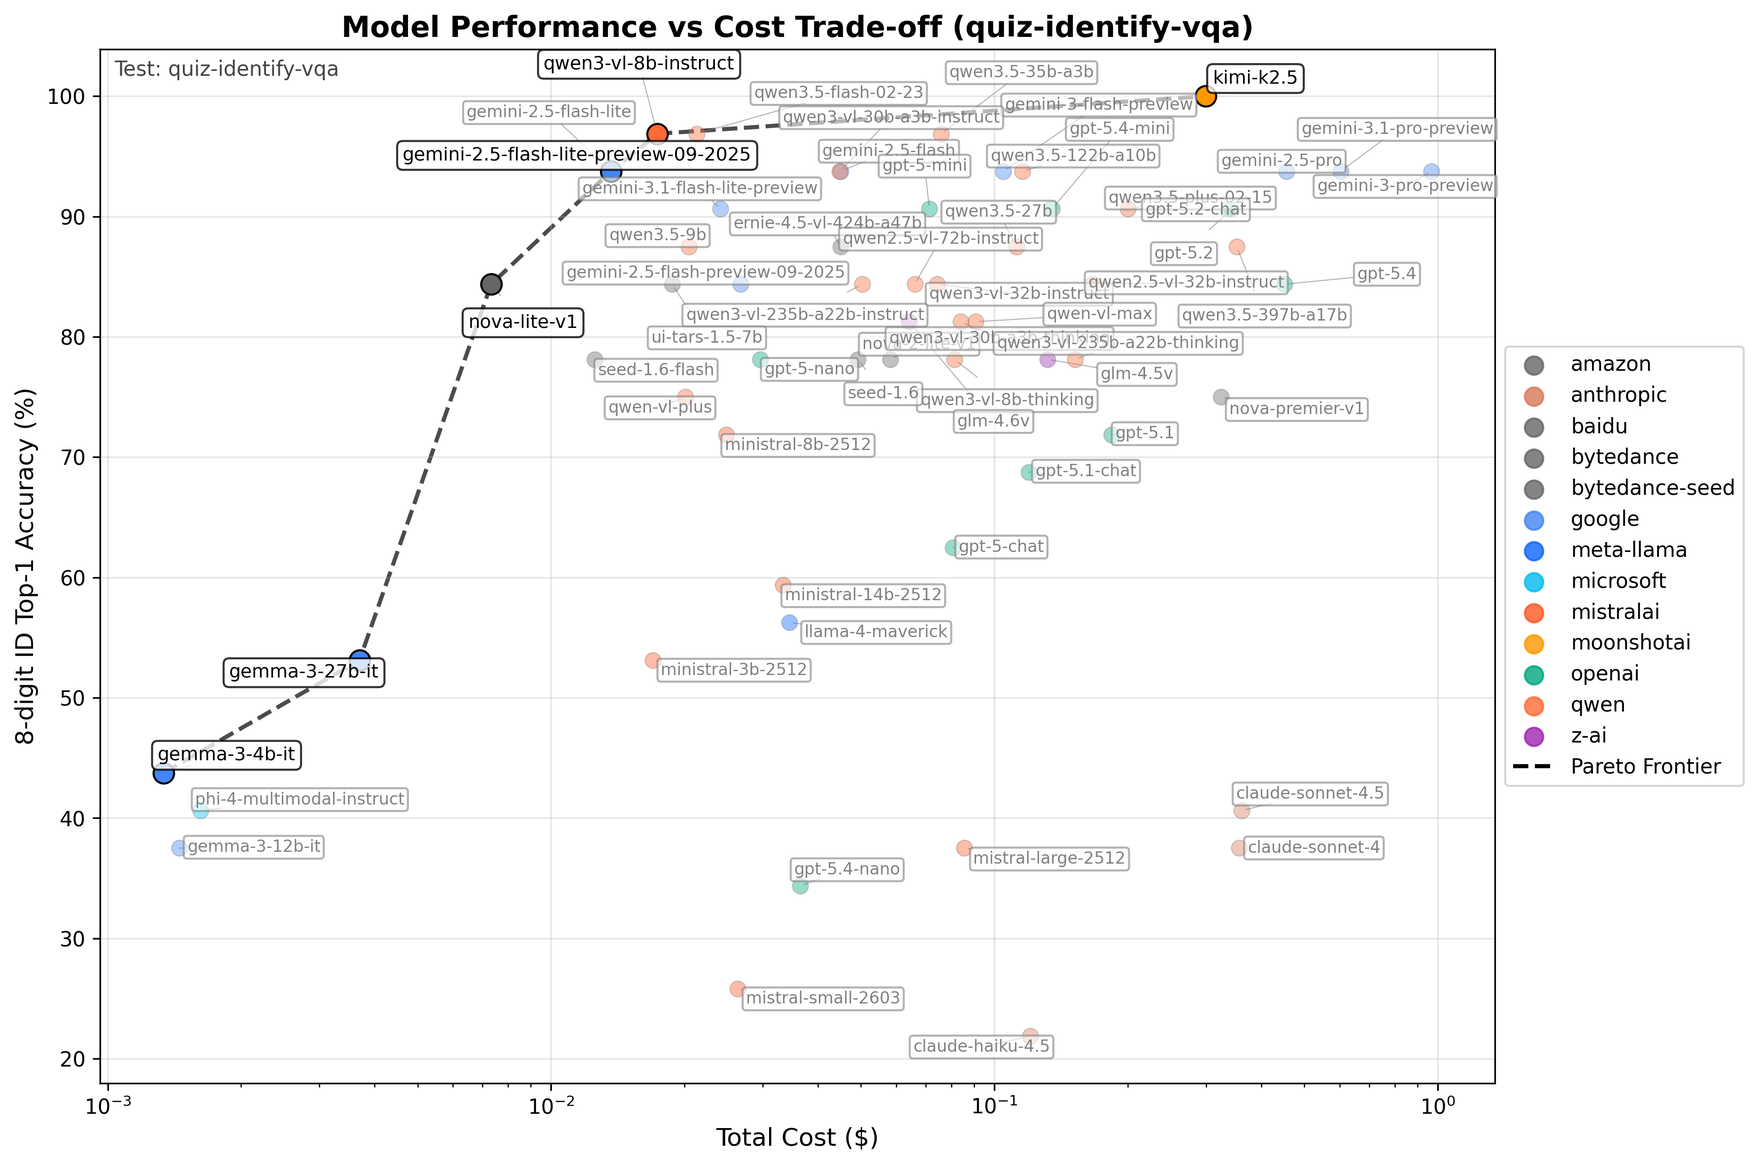
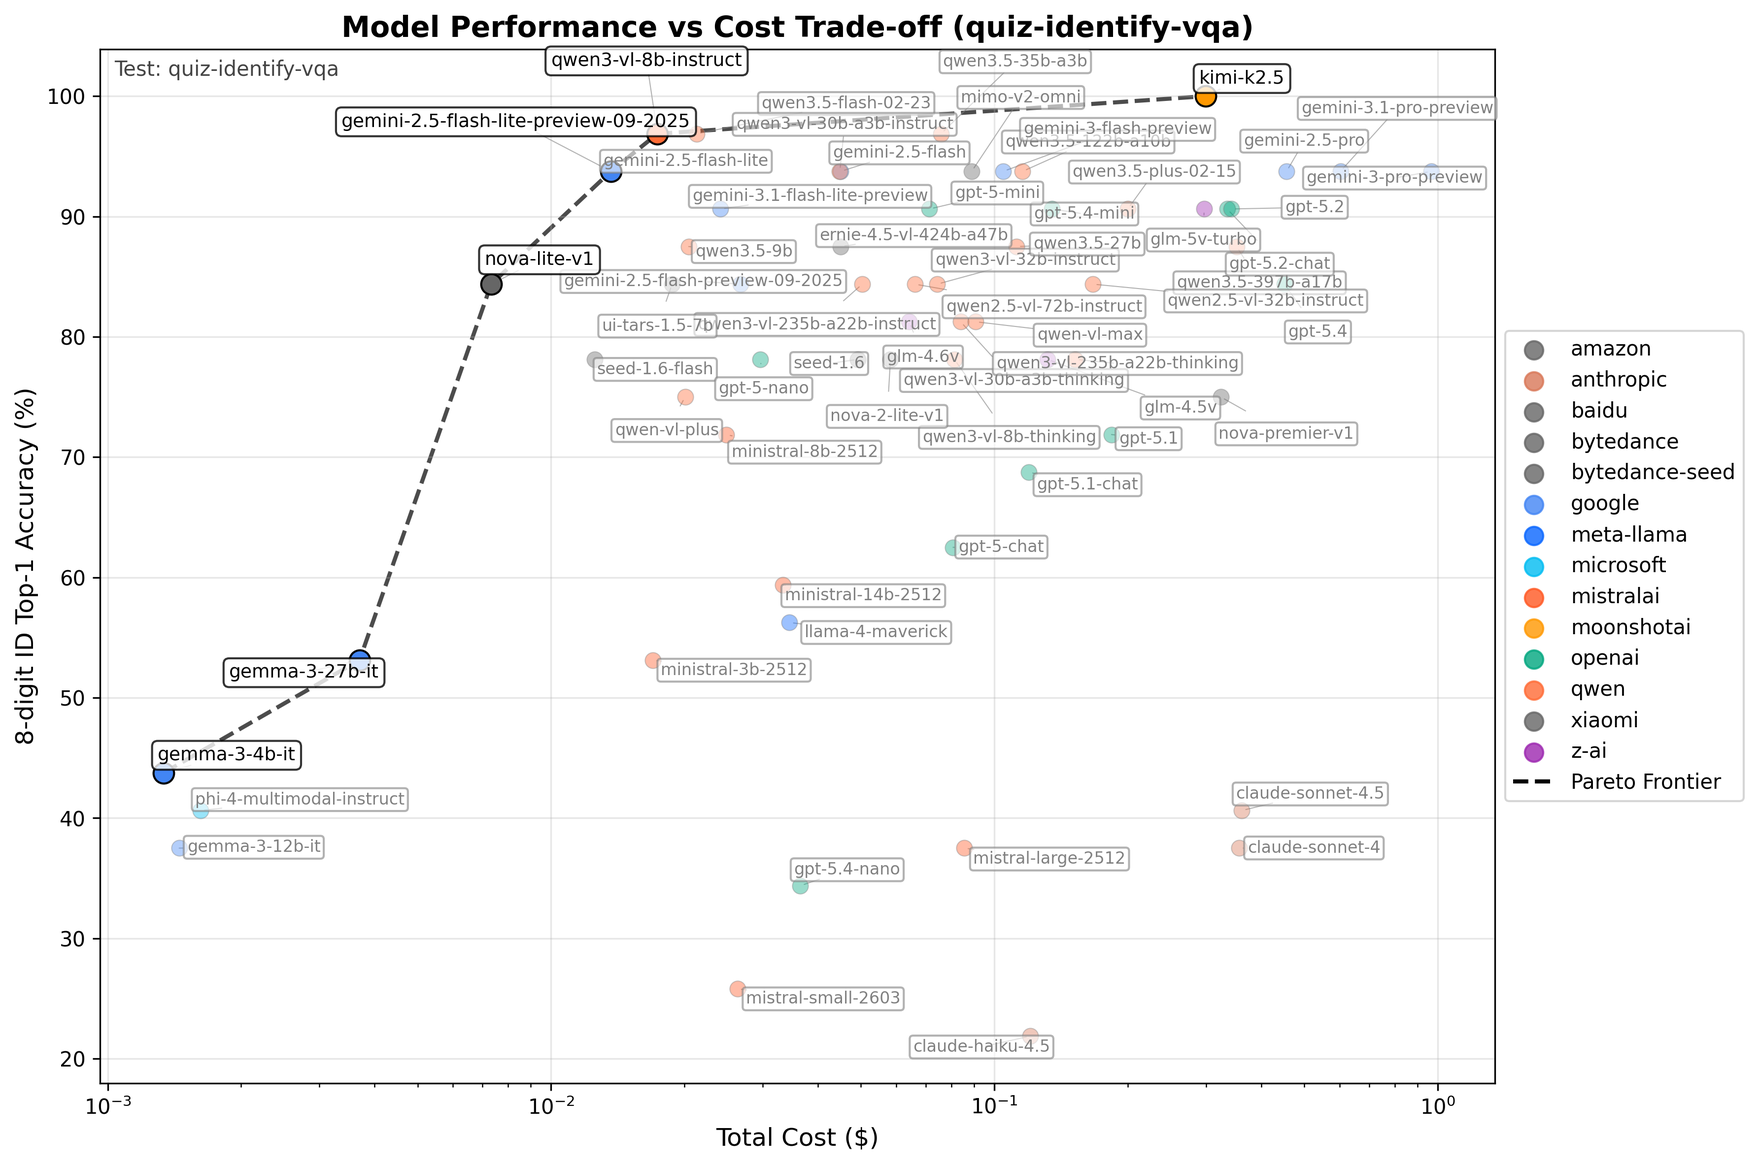
chore(benchmarks): add mimo and glm benchmark results

Changed region(s): [[0.1867, 0.0309, 0.8711, 0.432], [0.84, 0.2777, 0.9955, 0.6788]]

diff --git a/BENCHMARKS.md b/BENCHMARKS.md
@@ -39,16 +39,16 @@ All VLM runs use the following consistent configuration:
 
 ## Complete Results
 
-| **Metric** | **OpenCV+CNN** | **openai**<br>gpt-5.4-nano | **openai**<br>gpt-5.4-mini | **openai**<br>gpt-5.4 | **openai**<br>gpt-5.2-chat | **openai**<br>gpt-5.2 | **openai**<br>gpt-5.1-chat | **openai**<br>gpt-5.1 | **openai**<br>gpt-5-chat | **openai**<br>gpt-5-mini | **openai**<br>gpt-5-nano | **mistralai**<br>mistral-small-2603 | **mistralai**<br>ministral-14b-2512 | **mistralai**<br>ministral-8b-2512 | **mistralai**<br>ministral-3b-2512 | **mistralai**<br>mistral-large-2512 | **qwen**<br>qwen3.5-9b | **qwen**<br>qwen3-vl-8b-instruct | **qwen**<br>qwen3-vl-8b-thinking | **qwen**<br>qwen3-vl-32b-instruct | **qwen**<br>qwen3.5-flash-02-23 | **qwen**<br>qwen3.5-35b-a3b | **qwen**<br>qwen3.5-27b | **qwen**<br>qwen3.5-122b-a10b | **qwen**<br>qwen3.5-397b-a17b | **qwen**<br>qwen3.5-plus-02-15 | **qwen**<br>qwen2.5-vl-72b-instruct | **qwen**<br>qwen-vl-plus | **qwen**<br>qwen3-vl-30b-a3b-instruct | **qwen**<br>qwen3-vl-30b-a3b-thinking | **qwen**<br>qwen-vl-max | **qwen**<br>qwen3-vl-235b-a22b-thinking | **qwen**<br>qwen3-vl-235b-a22b-instruct | **qwen**<br>qwen2.5-vl-32b-instruct | **google**<br>gemini-3.1-flash-lite-preview | **google**<br>gemini-2.5-flash | **google**<br>gemini-2.5-flash-lite-preview-09-2025 | **google**<br>gemini-2.5-flash-lite | **google**<br>gemma-3-27b-it | **google**<br>gemma-3-12b-it | **google**<br>gemma-3-4b-it | **google**<br>gemini-3.1-pro-preview | **google**<br>gemini-3-flash-preview | **google**<br>gemini-3-pro-preview | **google**<br>gemini-2.5-flash-preview-09-2025 | **google**<br>gemini-2.5-pro | **amazon**<br>nova-lite-v1 | **amazon**<br>nova-2-lite-v1 | **amazon**<br>nova-premier-v1 | **baidu**<br>ernie-4.5-vl-424b-a47b | **moonshotai**<br>kimi-k2.5 | **moonshotai**<br>kimi-vl-a3b-thinking:free | **bytedance-seed**<br>seed-1.6 | **bytedance-seed**<br>seed-1.6-flash | **z-ai**<br>glm-4.6v | **z-ai**<br>glm-4.5v | **anthropic**<br>claude-haiku-4.5 | **anthropic**<br>claude-sonnet-4.5 | **anthropic**<br>claude-sonnet-4 | **microsoft**<br>phi-4-multimodal-instruct | **bytedance**<br>ui-tars-1.5-7b | **meta-llama**<br>llama-4-maverick |
-|:---|:---|:---|:---|:---|:---|:---|:---|:---|:---|:---|:---|:---|:---|:---|:---|:---|:---|:---|:---|:---|:---|:---|:---|:---|:---|:---|:---|:---|:---|:---|:---|:---|:---|:---|:---|:---|:---|:---|:---|:---|:---|:---|:---|:---|:---|:---|:---|:---|:---|:---|:---|:---|:---|:---|:---|:---|:---|:---|:---|:---|:---|:---|
-| LLM model size | N/A | ?? | ?? | ?? | ?? | ?? | ?? | ?? | ?? | ?? | ?? | 119A7 | 14B | 8B | 3B | 675A41 | 9B | 8B | 8B | 32B | ?? | 35A3 | 27B | 122A10 | 397A17 | ?? | 72B | ?? | 30A3 | 30A3 | ?? | 235A22 | 235A22 | 32B | ?? | ?? | ?? | ?? | 27B | 12B | 4B | ?? | ?? | ?? | ?? | ?? | ?? | ?? | ?? | 424A47 | 1000A32 | 16A3 | ?? | ?? | 106B | 106A12 | ?? | ?? | ?? | 5.6B | 7B | 400A17 |
-| Open-weights | N/A | No | No | No | No | No | No | No | No | No | No | Yes | Yes | Yes | Yes | Yes | Yes | Yes | Yes | Yes | No | Yes | Yes | Yes | Yes | No | Yes | No | Yes | Yes | No | Yes | Yes | Yes | No | No | No | No | Yes | Yes | Yes | No | No | No | No | No | No | No | No | Yes | Yes | Yes | No | No | Yes | Yes | No | No | No | Yes | Yes | Yes |
-| digit_top1 | 85.16% | 76.56% | 98.05% | 98.05% | 98.44% | 98.44% | 91.80% | 92.58% | 89.84% | 98.83% | 96.48% | 76.61% | 82.81% | 89.84% | 83.59% | 78.12% | 98.44% | 99.61% | 96.09% | 97.27% | 99.61% | 99.61% | 98.44% | 99.22% | 98.05% | 98.83% | 96.48% | 96.88% | 99.22% | 97.27% | 97.27% | 94.53% | 97.66% | 96.09% | 97.27% | 99.22% | 99.22% | 99.22% | 82.81% | 73.05% | 74.22% | 99.22% | 99.22% | 99.22% | 98.05% | 99.22% | 97.66% | 97.27% | 94.53% | 98.05% | **100.00%** | 85.94% | 96.48% | 95.70% | 94.92% | 93.36% | 74.22% | 82.81% | 84.77% | 71.48% | 96.48% | 89.84% |
-| 8-digit id_top1 | ?? | 34.38% | 90.62% | 84.38% | 90.62% | 90.62% | 68.75% | 71.88% | 62.50% | 90.62% | 78.12% | 25.81% | 59.38% | 71.88% | 53.12% | 37.50% | 87.50% | 96.88% | 78.12% | 84.38% | 96.88% | 96.88% | 87.50% | 93.75% | 87.50% | 90.62% | 84.38% | 75.00% | 93.75% | 81.25% | 81.25% | 78.12% | 84.38% | 84.38% | 90.62% | 93.75% | 93.75% | 93.75% | 53.12% | 37.50% | 43.75% | 93.75% | 93.75% | 93.75% | 84.38% | 93.75% | 84.38% | 78.12% | 75.00% | 87.50% | **100.00%** | 50.00% | 78.12% | 78.12% | 81.25% | 78.12% | 21.88% | 40.62% | 37.50% | 40.62% | 84.38% | 56.25% |
-| lastname_top1 | N/A | 75.00% | **100.00%** | 96.88% | 96.88% | 96.88% | **100.00%** | **100.00%** | **100.00%** | **100.00%** | 93.75% | 87.10% | 96.88% | 93.75% | 90.62% | 87.50% | 96.88% | **100.00%** | 93.75% | 96.88% | **100.00%** | **100.00%** | 96.88% | 96.88% | **100.00%** | 96.88% | **100.00%** | **100.00%** | 93.75% | 96.88% | 96.88% | **100.00%** | 96.88% | **100.00%** | **100.00%** | **100.00%** | **100.00%** | 96.88% | **100.00%** | 93.75% | 90.62% | **100.00%** | **100.00%** | **100.00%** | **100.00%** | **100.00%** | 96.88% | **100.00%** | **100.00%** | 93.75% | **100.00%** | 96.88% | 93.75% | 96.88% | **100.00%** | **100.00%** | 93.75% | 96.88% | **100.00%** | **100.00%** | 96.88% | 96.88% |
-| ID Avg d_Lev | N/A | 1.2812 | 0.0938 | 0.1562 | 0.1250 | 0.1250 | 0.4375 | 0.5938 | 0.5312 | 0.0938 | 0.2188 | 1.7742 | 0.8750 | 0.4062 | 0.5312 | 1.2188 | 0.1250 | 0.0312 | 0.2500 | 0.2188 | 0.0312 | 0.0312 | 0.1250 | 0.0625 | 0.1562 | 0.0938 | 0.1562 | 0.2500 | 0.0625 | 0.2188 | 0.2188 | 0.4688 | 0.1875 | 0.1562 | 0.0938 | 0.0625 | 0.0625 | 0.0625 | 0.9688 | 1.0312 | 1.0312 | 0.0625 | 0.0625 | 0.0625 | 0.1562 | 0.0625 | 0.1875 | 0.2188 | 0.2500 | 0.1562 | **0.0000** | 0.9062 | 0.2812 | 0.2812 | 0.1875 | 0.2188 | 1.4062 | 1.0000 | 1.0938 | 1.2188 | 0.1562 | 0.5312 |
-| Lastname Avg d_Lev | N/A | 0.6875 | **0.0000** | 0.0625 | 0.0625 | 0.1562 | **0.0000** | **0.0000** | **0.0000** | **0.0000** | 0.0625 | 0.5484 | 0.0312 | 0.0938 | 0.2188 | 0.3750 | 0.1250 | **0.0000** | 0.1250 | 0.0312 | **0.0000** | **0.0000** | 0.0312 | 0.0312 | **0.0000** | 0.0312 | **0.0000** | **0.0000** | 0.1875 | 0.0312 | 0.0312 | **0.0000** | 0.0312 | **0.0000** | **0.0000** | **0.0000** | **0.0000** | 0.0312 | **0.0000** | 0.0938 | 0.1250 | **0.0000** | **0.0000** | **0.0000** | **0.0000** | **0.0000** | 0.0625 | **0.0000** | **0.0000** | 0.0938 | **0.0000** | 0.0312 | 0.1875 | 0.0312 | **0.0000** | **0.0000** | 0.2188 | 0.0625 | **0.0000** | **0.0000** | 0.0312 | 0.0312 |
-| Docs detected | 90.62% (29/32) | **100.00% (32/32)** | **100.00% (32/32)** | **100.00% (32/32)** | **100.00% (32/32)** | **100.00% (32/32)** | **100.00% (32/32)** | **100.00% (32/32)** | **100.00% (32/32)** | **100.00% (32/32)** | **100.00% (32/32)** | 96.88% (31/32) | **100.00% (32/32)** | **100.00% (32/32)** | **100.00% (32/32)** | **100.00% (32/32)** | **100.00% (32/32)** | **100.00% (32/32)** | **100.00% (32/32)** | **100.00% (32/32)** | **100.00% (32/32)** | **100.00% (32/32)** | **100.00% (32/32)** | **100.00% (32/32)** | **100.00% (32/32)** | **100.00% (32/32)** | **100.00% (32/32)** | **100.00% (32/32)** | **100.00% (32/32)** | **100.00% (32/32)** | **100.00% (32/32)** | **100.00% (32/32)** | **100.00% (32/32)** | **100.00% (32/32)** | **100.00% (32/32)** | **100.00% (32/32)** | **100.00% (32/32)** | **100.00% (32/32)** | **100.00% (32/32)** | **100.00% (32/32)** | **100.00% (32/32)** | **100.00% (32/32)** | **100.00% (32/32)** | **100.00% (32/32)** | **100.00% (32/32)** | **100.00% (32/32)** | **100.00% (32/32)** | **100.00% (32/32)** | **100.00% (32/32)** | **100.00% (32/32)** | **100.00% (32/32)** | **100.00% (32/32)** | **100.00% (32/32)** | **100.00% (32/32)** | **100.00% (32/32)** | **100.00% (32/32)** | **100.00% (32/32)** | **100.00% (32/32)** | **100.00% (32/32)** | **100.00% (32/32)** | **100.00% (32/32)** | **100.00% (32/32)** |
-| Runtime | **~1 second** | 11 seconds | 39 seconds | 1.3 minutes | 53 seconds | 57 seconds | 5.2 minutes | 8.9 minutes | 2.8 minutes | 8.3 minutes | 10.5 minutes | 44 seconds | 38 seconds | 14 seconds | 18 seconds | 23 seconds | 46 seconds | 17 seconds | 1.1 minutes | 17 seconds | 3.0 minutes | 19 seconds | 1.7 minutes | 39 seconds | 9.6 minutes | 4.0 minutes | 19 seconds | 10 seconds | 2.3 minutes | 6.3 minutes | 4.5 minutes | 13.9 minutes | 4.5 minutes | 2.3 minutes | 20 seconds | 16 seconds | 11 seconds | 12 seconds | 16 seconds | 10 seconds | 14 seconds | 1.1 minutes | 8 seconds | 26.4 minutes | 4.4 minutes | 8.0 minutes | 11 seconds | 3.5 minutes | 6.4 minutes | 51 seconds | 1.6 minutes | 9.5 minutes | 57 seconds | 44 seconds | 6.6 minutes | 6.2 minutes | 5.0 minutes | 5.4 minutes | 3.5 minutes | 2.1 minutes | 1.8 minutes | 2.0 minutes |
-| Cost per image | **$0.00** | $0.000570 | $0.002105 | $0.007050 | $0.005232 | $0.005352 | $0.001866 | $0.002870 | $0.001260 | $0.001115 | $0.000463 | $0.000411 | $0.000521 | $0.000388 | $0.000265 | $0.001335 | $0.000319 | $0.000272 | $0.001269 | $0.001161 | $0.000333 | $0.001184 | $0.001751 | $0.001808 | $0.005496 | $0.003124 | $0.001033 | $0.000314 | $0.000700 | $0.001311 | $0.001415 | $0.002376 | $0.000786 | $0.002605 | $0.000377 | $0.000703 | $0.000213 | $0.000214 | $0.000058 | $0.000023 | $0.000021 | $0.009424 | $0.001636 | $0.015111 | $0.000418 | $0.007125 | $0.000114 | $0.000911 | $0.005061 | $0.000703 | $0.004679 | **$0.000000** | $0.000770 | $0.000196 | $0.001004 | $0.002057 | $0.001882 | $0.005646 | $0.005567 | $0.000025 | $0.000293 | $0.000539 |
-| Total cost | **$0.00** | $0.0365 | $0.1347 | $0.4512 | $0.3348 | $0.3426 | $0.1195 | $0.1837 | $0.0807 | $0.0714 | $0.0297 | $0.0263 | $0.0333 | $0.0248 | $0.0170 | $0.0854 | $0.0204 | $0.0174 | $0.0812 | $0.0743 | $0.0213 | $0.0758 | $0.1120 | $0.1157 | $0.3518 | $0.1999 | $0.0661 | $0.0201 | $0.0448 | $0.0839 | $0.0906 | $0.1521 | $0.0503 | $0.1667 | $0.0241 | $0.0450 | $0.0136 | $0.0137 | $0.0037 | $0.0014 | $0.0013 | $0.6031 | $0.1047 | $0.9671 | $0.0267 | $0.4560 | $0.0073 | $0.0583 | $0.3239 | $0.0450 | $0.2995 | **$0.0000** | $0.0492 | $0.0126 | $0.0642 | $0.1316 | $0.1205 | $0.3614 | $0.3563 | $0.0016 | $0.0187 | $0.0345 |
+| **Metric** | **OpenCV+CNN** | **z-ai**<br>glm-5v-turbo | **z-ai**<br>glm-4.6v | **z-ai**<br>glm-4.5v | **xiaomi**<br>mimo-v2-omni | **openai**<br>gpt-5.4-nano | **openai**<br>gpt-5.4-mini | **openai**<br>gpt-5.4 | **openai**<br>gpt-5.2-chat | **openai**<br>gpt-5.2 | **openai**<br>gpt-5.1-chat | **openai**<br>gpt-5.1 | **openai**<br>gpt-5-chat | **openai**<br>gpt-5-mini | **openai**<br>gpt-5-nano | **mistralai**<br>mistral-small-2603 | **mistralai**<br>ministral-14b-2512 | **mistralai**<br>ministral-8b-2512 | **mistralai**<br>ministral-3b-2512 | **mistralai**<br>mistral-large-2512 | **qwen**<br>qwen3.5-9b | **qwen**<br>qwen3-vl-8b-instruct | **qwen**<br>qwen3-vl-8b-thinking | **qwen**<br>qwen3-vl-32b-instruct | **qwen**<br>qwen3.5-flash-02-23 | **qwen**<br>qwen3.5-35b-a3b | **qwen**<br>qwen3.5-27b | **qwen**<br>qwen3.5-122b-a10b | **qwen**<br>qwen3.5-397b-a17b | **qwen**<br>qwen3.5-plus-02-15 | **qwen**<br>qwen2.5-vl-72b-instruct | **qwen**<br>qwen-vl-plus | **qwen**<br>qwen3-vl-30b-a3b-instruct | **qwen**<br>qwen3-vl-30b-a3b-thinking | **qwen**<br>qwen-vl-max | **qwen**<br>qwen3-vl-235b-a22b-thinking | **qwen**<br>qwen3-vl-235b-a22b-instruct | **qwen**<br>qwen2.5-vl-32b-instruct | **google**<br>gemini-3.1-flash-lite-preview | **google**<br>gemini-2.5-flash | **google**<br>gemini-2.5-flash-lite-preview-09-2025 | **google**<br>gemini-2.5-flash-lite | **google**<br>gemma-3-27b-it | **google**<br>gemma-3-12b-it | **google**<br>gemma-3-4b-it | **google**<br>gemini-3.1-pro-preview | **google**<br>gemini-3-flash-preview | **google**<br>gemini-3-pro-preview | **google**<br>gemini-2.5-flash-preview-09-2025 | **google**<br>gemini-2.5-pro | **amazon**<br>nova-lite-v1 | **amazon**<br>nova-2-lite-v1 | **amazon**<br>nova-premier-v1 | **baidu**<br>ernie-4.5-vl-424b-a47b | **moonshotai**<br>kimi-k2.5 | **moonshotai**<br>kimi-vl-a3b-thinking:free | **bytedance-seed**<br>seed-1.6 | **bytedance-seed**<br>seed-1.6-flash | **anthropic**<br>claude-haiku-4.5 | **anthropic**<br>claude-sonnet-4.5 | **anthropic**<br>claude-sonnet-4 | **microsoft**<br>phi-4-multimodal-instruct | **bytedance**<br>ui-tars-1.5-7b | **meta-llama**<br>llama-4-maverick |
+|:---|:---|:---|:---|:---|:---|:---|:---|:---|:---|:---|:---|:---|:---|:---|:---|:---|:---|:---|:---|:---|:---|:---|:---|:---|:---|:---|:---|:---|:---|:---|:---|:---|:---|:---|:---|:---|:---|:---|:---|:---|:---|:---|:---|:---|:---|:---|:---|:---|:---|:---|:---|:---|:---|:---|:---|:---|:---|:---|:---|:---|:---|:---|:---|:---|
+| LLM model size | N/A | ?? | 106B | 106A12 | ?? | ?? | ?? | ?? | ?? | ?? | ?? | ?? | ?? | ?? | ?? | 119A7 | 14B | 8B | 3B | 675A41 | 9B | 8B | 8B | 32B | ?? | 35A3 | 27B | 122A10 | 397A17 | ?? | 72B | ?? | 30A3 | 30A3 | ?? | 235A22 | 235A22 | 32B | ?? | ?? | ?? | ?? | 27B | 12B | 4B | ?? | ?? | ?? | ?? | ?? | ?? | ?? | ?? | 424A47 | 1000A32 | 16A3 | ?? | ?? | ?? | ?? | ?? | 5.6B | 7B | 400A17 |
+| Open-weights | N/A | No | Yes | Yes | No | No | No | No | No | No | No | No | No | No | No | Yes | Yes | Yes | Yes | Yes | Yes | Yes | Yes | Yes | No | Yes | Yes | Yes | Yes | No | Yes | No | Yes | Yes | No | Yes | Yes | Yes | No | No | No | No | Yes | Yes | Yes | No | No | No | No | No | No | No | No | Yes | Yes | Yes | No | No | No | No | No | Yes | Yes | Yes |
+| digit_top1 | 85.16% | 95.31% | 94.92% | 93.36% | 99.22% | 76.56% | 98.05% | 98.05% | 98.44% | 98.44% | 91.80% | 92.58% | 89.84% | 98.83% | 96.48% | 76.61% | 82.81% | 89.84% | 83.59% | 78.12% | 98.44% | 99.61% | 96.09% | 97.27% | 99.61% | 99.61% | 98.44% | 99.22% | 98.05% | 98.83% | 96.48% | 96.88% | 99.22% | 97.27% | 97.27% | 94.53% | 97.66% | 96.09% | 97.27% | 99.22% | 99.22% | 99.22% | 82.81% | 73.05% | 74.22% | 99.22% | 99.22% | 99.22% | 98.05% | 99.22% | 97.66% | 97.27% | 94.53% | 98.05% | **100.00%** | 85.94% | 96.48% | 95.70% | 74.22% | 82.81% | 84.77% | 71.48% | 96.48% | 89.84% |
+| 8-digit id_top1 | ?? | 90.62% | 81.25% | 78.12% | 93.75% | 34.38% | 90.62% | 84.38% | 90.62% | 90.62% | 68.75% | 71.88% | 62.50% | 90.62% | 78.12% | 25.81% | 59.38% | 71.88% | 53.12% | 37.50% | 87.50% | 96.88% | 78.12% | 84.38% | 96.88% | 96.88% | 87.50% | 93.75% | 87.50% | 90.62% | 84.38% | 75.00% | 93.75% | 81.25% | 81.25% | 78.12% | 84.38% | 84.38% | 90.62% | 93.75% | 93.75% | 93.75% | 53.12% | 37.50% | 43.75% | 93.75% | 93.75% | 93.75% | 84.38% | 93.75% | 84.38% | 78.12% | 75.00% | 87.50% | **100.00%** | 50.00% | 78.12% | 78.12% | 21.88% | 40.62% | 37.50% | 40.62% | 84.38% | 56.25% |
+| lastname_top1 | N/A | **100.00%** | **100.00%** | **100.00%** | **100.00%** | 75.00% | **100.00%** | 96.88% | 96.88% | 96.88% | **100.00%** | **100.00%** | **100.00%** | **100.00%** | 93.75% | 87.10% | 96.88% | 93.75% | 90.62% | 87.50% | 96.88% | **100.00%** | 93.75% | 96.88% | **100.00%** | **100.00%** | 96.88% | 96.88% | **100.00%** | 96.88% | **100.00%** | **100.00%** | 93.75% | 96.88% | 96.88% | **100.00%** | 96.88% | **100.00%** | **100.00%** | **100.00%** | **100.00%** | 96.88% | **100.00%** | 93.75% | 90.62% | **100.00%** | **100.00%** | **100.00%** | **100.00%** | **100.00%** | 96.88% | **100.00%** | **100.00%** | 93.75% | **100.00%** | 96.88% | 93.75% | 96.88% | 93.75% | 96.88% | **100.00%** | **100.00%** | 96.88% | 96.88% |
+| ID Avg d_Lev | N/A | 0.1250 | 0.1875 | 0.2188 | 0.0625 | 1.2812 | 0.0938 | 0.1562 | 0.1250 | 0.1250 | 0.4375 | 0.5938 | 0.5312 | 0.0938 | 0.2188 | 1.7742 | 0.8750 | 0.4062 | 0.5312 | 1.2188 | 0.1250 | 0.0312 | 0.2500 | 0.2188 | 0.0312 | 0.0312 | 0.1250 | 0.0625 | 0.1562 | 0.0938 | 0.1562 | 0.2500 | 0.0625 | 0.2188 | 0.2188 | 0.4688 | 0.1875 | 0.1562 | 0.0938 | 0.0625 | 0.0625 | 0.0625 | 0.9688 | 1.0312 | 1.0312 | 0.0625 | 0.0625 | 0.0625 | 0.1562 | 0.0625 | 0.1875 | 0.2188 | 0.2500 | 0.1562 | **0.0000** | 0.9062 | 0.2812 | 0.2812 | 1.4062 | 1.0000 | 1.0938 | 1.2188 | 0.1562 | 0.5312 |
+| Lastname Avg d_Lev | N/A | **0.0000** | **0.0000** | **0.0000** | **0.0000** | 0.6875 | **0.0000** | 0.0625 | 0.0625 | 0.1562 | **0.0000** | **0.0000** | **0.0000** | **0.0000** | 0.0625 | 0.5484 | 0.0312 | 0.0938 | 0.2188 | 0.3750 | 0.1250 | **0.0000** | 0.1250 | 0.0312 | **0.0000** | **0.0000** | 0.0312 | 0.0312 | **0.0000** | 0.0312 | **0.0000** | **0.0000** | 0.1875 | 0.0312 | 0.0312 | **0.0000** | 0.0312 | **0.0000** | **0.0000** | **0.0000** | **0.0000** | 0.0312 | **0.0000** | 0.0938 | 0.1250 | **0.0000** | **0.0000** | **0.0000** | **0.0000** | **0.0000** | 0.0625 | **0.0000** | **0.0000** | 0.0938 | **0.0000** | 0.0312 | 0.1875 | 0.0312 | 0.2188 | 0.0625 | **0.0000** | **0.0000** | 0.0312 | 0.0312 |
+| Docs detected | 90.62% (29/32) | **100.00% (32/32)** | **100.00% (32/32)** | **100.00% (32/32)** | **100.00% (32/32)** | **100.00% (32/32)** | **100.00% (32/32)** | **100.00% (32/32)** | **100.00% (32/32)** | **100.00% (32/32)** | **100.00% (32/32)** | **100.00% (32/32)** | **100.00% (32/32)** | **100.00% (32/32)** | **100.00% (32/32)** | 96.88% (31/32) | **100.00% (32/32)** | **100.00% (32/32)** | **100.00% (32/32)** | **100.00% (32/32)** | **100.00% (32/32)** | **100.00% (32/32)** | **100.00% (32/32)** | **100.00% (32/32)** | **100.00% (32/32)** | **100.00% (32/32)** | **100.00% (32/32)** | **100.00% (32/32)** | **100.00% (32/32)** | **100.00% (32/32)** | **100.00% (32/32)** | **100.00% (32/32)** | **100.00% (32/32)** | **100.00% (32/32)** | **100.00% (32/32)** | **100.00% (32/32)** | **100.00% (32/32)** | **100.00% (32/32)** | **100.00% (32/32)** | **100.00% (32/32)** | **100.00% (32/32)** | **100.00% (32/32)** | **100.00% (32/32)** | **100.00% (32/32)** | **100.00% (32/32)** | **100.00% (32/32)** | **100.00% (32/32)** | **100.00% (32/32)** | **100.00% (32/32)** | **100.00% (32/32)** | **100.00% (32/32)** | **100.00% (32/32)** | **100.00% (32/32)** | **100.00% (32/32)** | **100.00% (32/32)** | **100.00% (32/32)** | **100.00% (32/32)** | **100.00% (32/32)** | **100.00% (32/32)** | **100.00% (32/32)** | **100.00% (32/32)** | **100.00% (32/32)** | **100.00% (32/32)** | **100.00% (32/32)** |
+| Runtime | **~1 second** | 33 seconds | 6.6 minutes | 6.2 minutes | 42 seconds | 11 seconds | 39 seconds | 1.3 minutes | 53 seconds | 57 seconds | 5.2 minutes | 8.9 minutes | 2.8 minutes | 8.3 minutes | 10.5 minutes | 44 seconds | 38 seconds | 14 seconds | 18 seconds | 23 seconds | 46 seconds | 17 seconds | 1.1 minutes | 17 seconds | 3.0 minutes | 19 seconds | 1.7 minutes | 39 seconds | 9.6 minutes | 4.0 minutes | 19 seconds | 10 seconds | 2.3 minutes | 6.3 minutes | 4.5 minutes | 13.9 minutes | 4.5 minutes | 2.3 minutes | 20 seconds | 16 seconds | 11 seconds | 12 seconds | 16 seconds | 10 seconds | 14 seconds | 1.1 minutes | 8 seconds | 26.4 minutes | 4.4 minutes | 8.0 minutes | 11 seconds | 3.5 minutes | 6.4 minutes | 51 seconds | 1.6 minutes | 9.5 minutes | 57 seconds | 44 seconds | 5.0 minutes | 5.4 minutes | 3.5 minutes | 2.1 minutes | 1.8 minutes | 2.0 minutes |
+| Cost per image | **$0.00** | $0.004642 | $0.001004 | $0.002057 | $0.001389 | $0.000570 | $0.002105 | $0.007050 | $0.005232 | $0.005352 | $0.001866 | $0.002870 | $0.001260 | $0.001115 | $0.000463 | $0.000411 | $0.000521 | $0.000388 | $0.000265 | $0.001335 | $0.000319 | $0.000272 | $0.001269 | $0.001161 | $0.000333 | $0.001184 | $0.001751 | $0.001808 | $0.005496 | $0.003124 | $0.001033 | $0.000314 | $0.000700 | $0.001311 | $0.001415 | $0.002376 | $0.000786 | $0.002605 | $0.000377 | $0.000703 | $0.000213 | $0.000214 | $0.000058 | $0.000023 | $0.000021 | $0.009424 | $0.001636 | $0.015111 | $0.000418 | $0.007125 | $0.000114 | $0.000911 | $0.005061 | $0.000703 | $0.004679 | **$0.000000** | $0.000770 | $0.000196 | $0.001882 | $0.005646 | $0.005567 | $0.000025 | $0.000293 | $0.000539 |
+| Total cost | **$0.00** | $0.2971 | $0.0642 | $0.1316 | $0.0889 | $0.0365 | $0.1347 | $0.4512 | $0.3348 | $0.3426 | $0.1195 | $0.1837 | $0.0807 | $0.0714 | $0.0297 | $0.0263 | $0.0333 | $0.0248 | $0.0170 | $0.0854 | $0.0204 | $0.0174 | $0.0812 | $0.0743 | $0.0213 | $0.0758 | $0.1120 | $0.1157 | $0.3518 | $0.1999 | $0.0661 | $0.0201 | $0.0448 | $0.0839 | $0.0906 | $0.1521 | $0.0503 | $0.1667 | $0.0241 | $0.0450 | $0.0136 | $0.0137 | $0.0037 | $0.0014 | $0.0013 | $0.6031 | $0.1047 | $0.9671 | $0.0267 | $0.4560 | $0.0073 | $0.0583 | $0.3239 | $0.0450 | $0.2995 | **$0.0000** | $0.0492 | $0.0126 | $0.1205 | $0.3614 | $0.3563 | $0.0016 | $0.0187 | $0.0345 |

diff --git a/README.md b/README.md
@@ -14,7 +14,7 @@ The table below shows the top performing models by category. See [BENCHMARKS.md]
 
 <!-- BENCHMARK_TABLE_START -->
 
-| **Metric** | **OpenCV+CNN** | **moonshotai**<br>kimi-k2.5 | **qwen**<br>qwen3-vl-8b-instruct | **qwen**<br>qwen3.5-flash-02-23 | **google**<br>gemini-2.5-flash |
+| **Metric** | **OpenCV+CNN** | **moonshotai**<br>kimi-k2.5 | **qwen**<br>qwen3-vl-8b-instruct | **qwen**<br>qwen3.5-flash-02-23 | **xiaomi**<br>mimo-v2-omni |
 |:---|:---|:---|:---|:---|:---|
 | LLM model size | N/A | 1000A32 | 8B | ?? | ?? |
 | Open-weights | N/A | Yes | Yes | No | No |
@@ -24,9 +24,9 @@ The table below shows the top performing models by category. See [BENCHMARKS.md]
 | ID Avg d_Lev | N/A | **0.0000** | 0.0312 | 0.0312 | 0.0625 |
 | Lastname Avg d_Lev | N/A | **0.0000** | **0.0000** | **0.0000** | **0.0000** |
 | Docs detected | 90.62% (29/32) | **100.00% (32/32)** | **100.00% (32/32)** | **100.00% (32/32)** | **100.00% (32/32)** |
-| Runtime (p) | **~1 second** | N/A | 17 seconds | 7 seconds | 15 seconds |
-| Cost per image | **$0.00** | $0.004679 | $0.000272 | $0.000333 | $0.000703 |
-| Total cost | **$0.00** | $0.2995 | $0.0174 | $0.0213 | $0.0450 |
+| Runtime (p) | **~1 second** | N/A | 17 seconds | 7 seconds | 41 seconds |
+| Cost per image | **$0.00** | $0.004679 | $0.000272 | $0.000333 | $0.001389 |
+| Total cost | **$0.00** | $0.2995 | $0.0174 | $0.0213 | $0.0889 |
 
 
 
